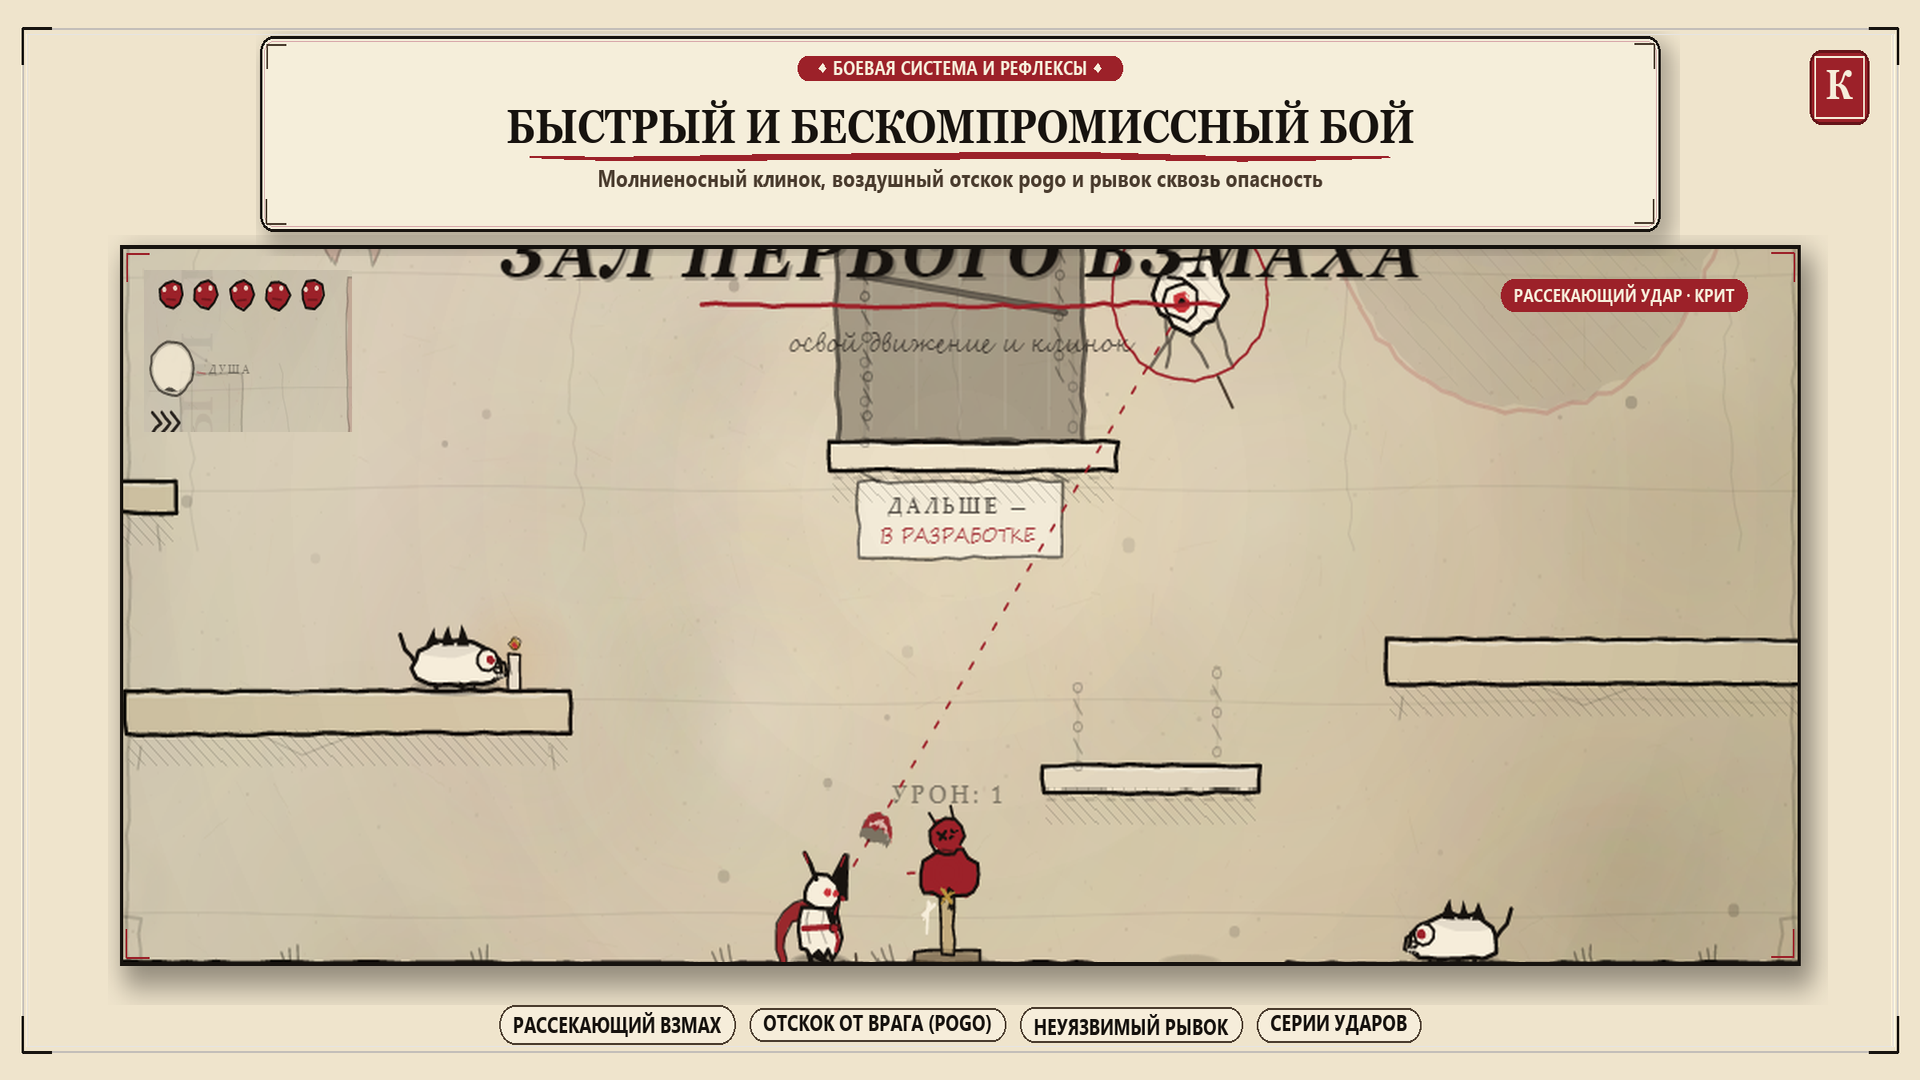
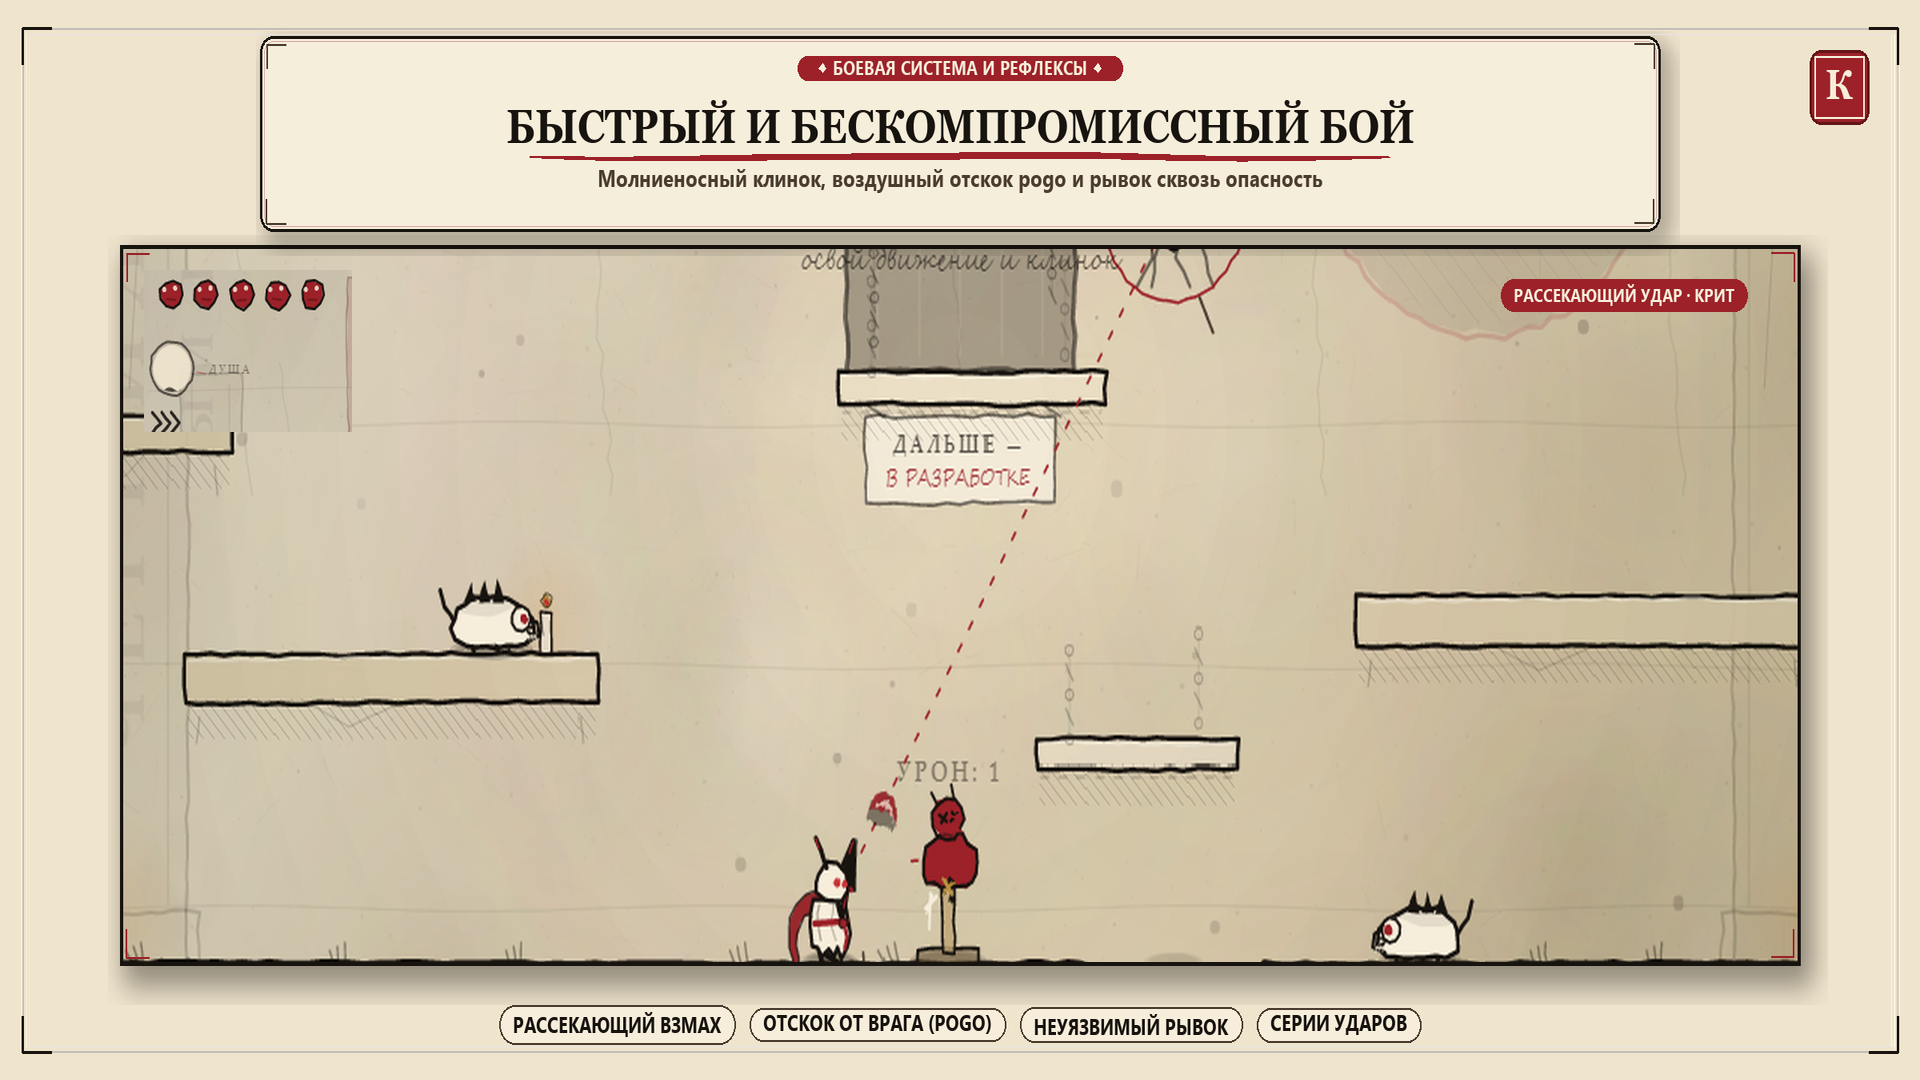
Refine screenshot crop parameters in generate_cards.py

diff --git a/docs/rustore/generate_cards.py b/docs/rustore/generate_cards.py
@@ -249,8 +249,8 @@ def make_card_2(W=2400, H=1080):
     
     slash_orig = Image.open(P_SLASH).convert("RGBA")
     # Crop combat focus: knight, red slash arc, dummy, damage text, enemies, sentinel laser
-    # slash_orig is 1280x720. Let's crop x: 120 to 1160, y: 220 to 625 (no keyboard bar)
-    combat_crop = slash_orig.crop((120, 220, 1160, 625))
+    # slash_orig is 1280x720. Let's crop x: 80 to 1200, y: 268 to 625 (clean action, no title text, no keyboard bar)
+    combat_crop = slash_orig.crop((80, 268, 1200, 625))
     
     # Also crop HUD health masks & soul sphere
     hud_crop = slash_orig.crop((30, 25, 230, 150))
